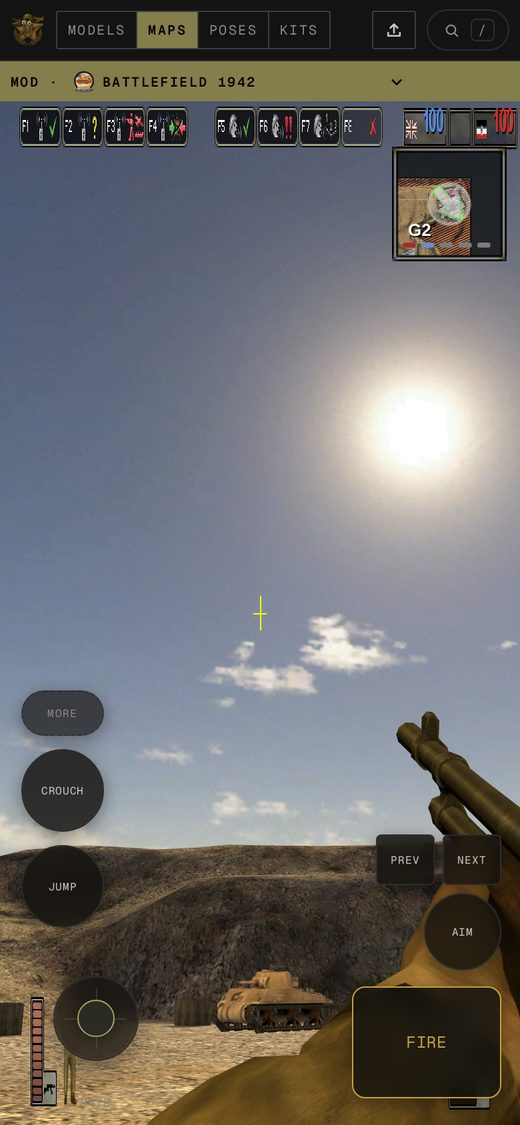
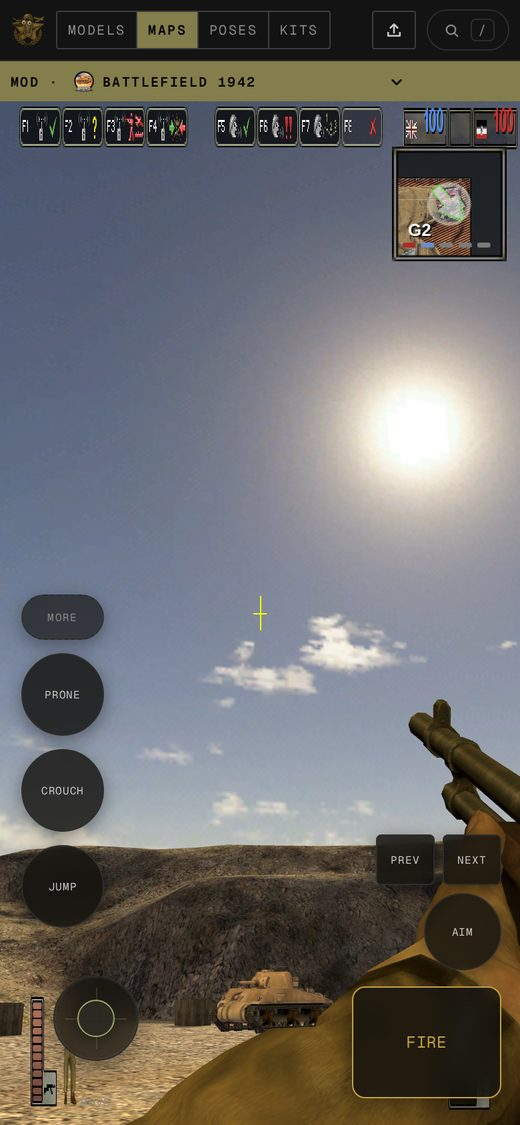
fix(viewer): a phone can get the soldier down and not back up
The report was "if you crouch or prone you can't get back up", with the
guess that it is a broken mechanic in our port and that retail lets you press
space to get up.

Measured on the live page first, driving the real keys with the shipped
bindings (LeftCtrl = c_PICrouch, Z = c_PILie, Space = c_PIAction, all three out
of the Infantry.con in controls-defaults.js). The keyboard path was already
correct: LeftCtrl held reads crouch and its release reads stand, Z toggles and
Z again stands him up, and Space while prone leaves him prone. The engine sets
the jump bit only when neither the crouch nor the prone flag is set (client
0x00500628-0x0050067a, symbols.json BFSoldier_jumpFlagSet), so a prone man's
Space press does nothing at all and is not a way out of it.

The fault was touch-only, and it was one button doing two jobs. Prone was the
CROUCH button's 500 ms long press, so an ordinary thumb-rest was a permanent
one-way trip: a hold and a toggle cannot share one target, and nothing on the
phone carried the toggle, so the only roads back were the keyboard's Z and the
keyboard's LeftCtrl.

Each posture button now carries one retail binding and nothing else.

- CROUCH is the c_PICrouch hold again and the long-press timer is gone
  (MOBILE_PRONE_HOLD_MS and proneHoldTimer are deleted), so resting on it can
  no longer put the soldier down.
- PRONE is a new button in the same column and is the literal c_PILie toggle:
[…]

diff --git a/tools/bf1942-models/viewer/touch-controls.js b/tools/bf1942-models/viewer/touch-controls.js
@@ -1,11 +1,12 @@
 /**
  * The touch controls, split by FINGER rather than by screen half.
  *
- * LEFT thumb: the FIXED move ring at the bottom-left, then the posture pair
- * stacked above it (JUMP, CROUCH) and the MORE tab over those. Those two are
- * here rather than on the right because they are the actions you need WHILE
- * the other thumb is shooting, and one thumb cannot hold FIRE, jump and crouch
- * at once.
+ * LEFT thumb: the FIXED move ring at the bottom-left, then the posture
+ * buttons stacked above it (JUMP, CROUCH, PRONE) and the MORE tab over those.
+ * Those three are here rather than on the right because they are the actions
+ * you need WHILE the other thumb is shooting, and one thumb cannot hold FIRE,
+ * jump and crouch at once. Each is one retail binding and nothing more:
+ * CROUCH holds `c_PICrouch` (LeftCtrl), PRONE toggles `c_PILie` (Z).
  * RIGHT thumb: FIRE at the bottom-right (a deliberate drag off a held FIRE
  * turns the camera), AIM above it, the kit's weapon pair above that, and the
  * look drag over the whole right half. A drag that is not on a button is the
@@ -29,7 +30,7 @@
  * page, as getters (a binding the page reassigns is read live):
  * `aircraft`, `captured`, `car`, `cycleKitWeapon`, `cycleView`, `ensureAudioContext`,
  * `enterVehicle`, `exitSeat`, `footView3p`, `handWeapon`, `isTouchDevice`,
- * `keys`, `kitOffer`, `lookDelta`, `mannedActive`,
+ * `keys`, `kitOffer`, `lookDelta`, `mannedActive`, `prone`,
  * `mouseInput`, `nearEntry`, `nearestEntry`, `noteSeatToggle`, `occupancy`,
  * `optOnFoot`, `optPilot`, `padTriggerDown`, `pickupKit`, `releaseButtons`,
  * `seatToggleReady`, `setFly`, `setTouchAltFire`,
@@ -75,6 +76,7 @@ export function createTouchControls(page) {
   const mobileUseBtn = document.getElementById('mobile-use-btn');
   const mobileViewBtn = document.getElementById('mobile-view-btn');
   const mobileJumpBtn = document.getElementById('mobile-jump-btn');
+  const mobileProneBtn = document.getElementById('mobile-prone-btn');
   const mobileMapBtn = document.getElementById('mobile-map-btn');
   const mobilePickupBtn = document.getElementById('mobile-pickup-btn');
   const mobileSeatsBtn = document.getElementById('mobile-seats-btn');
@@ -96,10 +98,6 @@ export function createTouchControls(page) {
   // reworked look drag; 2200 is ~270 deg/s, a rate stick that turns a 180 in
   // under a second at full tilt and still tracks finely at half deflection.
   const MOBILE_AIM_PIXELS_PER_SECOND = 2200;
-  // Hold the CROUCH button this long and the soldier goes prone as well,
-  // COD Mobile's crouch-over-prone stack: crouch is a hold (`c_PICrouch`),
-  // prone is an edge (`c_PILie`), and the button covers both.
-  const MOBILE_PRONE_HOLD_MS = 500;
   // How far a held FIRE has to travel before it turns the camera. PUBG Mobile
   // lets a drag off the fire button aim while the trigger stays down, which is
   // the whole reason the right thumb sits on FIRE; the slop keeps a thumb
@@ -117,7 +115,6 @@ export function createTouchControls(page) {
   touchControls.mobileThrottleTouched = false;
   touchControls.mobileControlsSignature = '';
   touchControls.mobileSheetOpen = false;
-  let proneHoldTimer = 0;
   let panPointerId = null;
   let panLastX = 0;
   let panLastY = 0;
@@ -211,6 +208,7 @@ export function createTouchControls(page) {
     mobileAimBtn.classList.remove('is-active');
     mobileCrouchBtn.classList.remove('is-active');
     mobileJumpBtn.classList.remove('is-active');
+    mobileProneBtn.classList.remove('is-active');
     mobileThrottleInput.value = '0';
     mobileThrottleValue.value = '0';
     if (page.aircraft) page.aircraft.setInput('c_PIThrottle', 0);
@@ -286,10 +284,13 @@ export function createTouchControls(page) {
     // A sheet with nothing in it is a dead tap, so it only exists for a state
     // that has something to offer, and it closes itself the moment it does not.
     const sheetOpen = touchControls.mobileSheetOpen && show;
+    // The prone flag is in the signature because the Z key can flip it with no
+    // touch of its own, and PRONE has to read as held either way.
+    const prone = !!page.prone;
     const signature = [
       show, padMode, padUsable, onFoot, seated, manned, driving, flying, aimable,
       page.nearEntry?.control || '', touchControls.mobileThrottleTouched,
-      canFire, canAim, canReload, canPickup, freeSeat, sideOpen, sheetOpen,
+      canFire, canAim, canReload, canPickup, freeSeat, sideOpen, sheetOpen, prone,
     ].join('|');
     // Collapse the open intent BEFORE the compare. A MORE press that lands on a
     // state with no HUD (the deploy screen) would otherwise leave the flag set,
@@ -330,8 +331,10 @@ export function createTouchControls(page) {
     mobileSeatsBtn.hidden = freeSeat < 0;
     mobileJumpBtn.hidden = !onFoot;
     mobileCrouchBtn.hidden = !onFoot;
+    mobileProneBtn.hidden = !onFoot;
     mobileJumpBtn.classList.toggle('is-active', touchControls.mobileJumpHeld && onFoot);
     mobileCrouchBtn.classList.toggle('is-active', touchControls.mobileCrouchHeld && onFoot);
+    mobileProneBtn.classList.toggle('is-active', prone && onFoot);
     mobileUseBtn.hidden = !(onFoot || seated);
     mobileUseBtn.disabled = onFoot ? !page.nearEntry : !seated;
     mobileUseBtn.textContent = onFoot ? (page.nearEntry ? `ENTER ${page.nearEntry.control}` : 'ENTER') : 'EXIT';
@@ -396,19 +399,22 @@ export function createTouchControls(page) {
     mobileAimBtn.classList.toggle('is-active', on);
   }
 
-  /** Crouch is a hold, prone its long press. The held key is the same
-   *  `e.code` the keyboard path records (`c_PICrouch`, LeftCtrl), so the
-   *  engine's per-frame held read sees one key, wherever it came from. */
+  /** Crouch is a hold and only a hold: the same `e.code` the keyboard path
+   *  records (`c_PICrouch`, LeftCtrl, `c_CMPushAndHold` in the shipped
+   *  Infantry.con), so the engine's per-frame held read sees one key wherever
+   *  it came from. Releasing stands the soldier back up, which BODY-1 reads
+   *  off `Lb_Crouch`'s own `returnToState Lb_CrouchToStand`.
+   *
+   *  Prone used to be this button's 500 ms long press, and that was wrong in
+   *  two ways at once: a hold and a toggle cannot share one target, and
+   *  nothing on the phone could undo the toggle. Prone is its own button now
+   *  (`c_PILie`, the Z key, `c_CMNonRepetitive`). */
   function holdMobileCrouch(on) {
     if (on) {
       page.setFly(true);
       touchControls.mobileCrouchHeld = true;
       page.keys.add(CROUCH_CODE);
       mobileCrouchBtn.classList.add('is-active');
-      clearTimeout(proneHoldTimer);
-      proneHoldTimer = setTimeout(() => {
-        if (page.optOnFoot.checked && page.soldier && !page.soldierDead && !page.occupancy) page.toggleProne();
-      }, MOBILE_PRONE_HOLD_MS);
     } else {
       touchControls.mobileCrouchHeld = false;
       page.keys.delete(CROUCH_CODE);
@@ -417,7 +423,6 @@ export function createTouchControls(page) {
   }
 
   function releaseMobileCrouch() {
-    clearTimeout(proneHoldTimer);
     if (touchControls.mobileCrouchHeld || page.keys.has(CROUCH_CODE)) holdMobileCrouch(false);
   }
 
@@ -707,6 +712,21 @@ export function createTouchControls(page) {
     // The keyboard's guard: reload once there is a magazine to reload.
     if (page.handWeapon?.data?.magazine) page.startReload?.();
   }, () => !mobileReloadBtn.disabled && !mobileReloadBtn.hidden);
+
+  // Prone, the Z key's own toggle (`c_PILie`, `c_CMNonRepetive`). Tapping it a
+  // second time is the road back up, exactly as on the keyboard, and the
+  // soldier rises through `Lb_LieToStand` (BODY-1). Jump is deliberately not
+  // that road: the engine sets the jump bit only when neither the crouch nor
+  // the prone flag is set (client `0x00500628`-`0x0050067a`, symbols.json
+  // `BFSoldier_jumpFlagSet`), so a prone man's Space press does nothing at all.
+  //
+  // The visibility pass is called straight on rather than left to the next
+  // `paintHud`, because this is the one button whose own lit state the press
+  // changes, and a frame of latency on "am I prone" is a frame of doubt.
+  edgeButton(mobileProneBtn, () => {
+    page.toggleProne();
+    updateMobileControls();
+  }, () => !mobileProneBtn.disabled && !mobileProneBtn.hidden);
 
   // The weapon pair, in the right thumb's arc over AIM: one press per step,
   // wrapping, and the step raises the weapon (see `mobileCycleWeapon`).

diff --git a/tools/bf1942-models/viewer/map.html b/tools/bf1942-models/viewer/map.html
@@ -88,11 +88,17 @@
        sheet instead of turning the camera. -->
   <div id="mobile-more-scrim" hidden></div>
   <div id="mobile-controls" hidden>
-    <!-- The left thumb's column, above the ring: the posture pair you need
-         WHILE the right thumb is shooting, then the tab for everything else. -->
+    <!-- The left thumb's column, above the ring: the posture buttons you need
+         WHILE the right thumb is shooting, then the tab for everything else.
+         Each is the retail binding and nothing else, because a hold and a
+         toggle cannot share one button: CROUCH holds `c_PICrouch` (LeftCtrl),
+         PRONE toggles `c_PILie` (Z), JUMP is `c_PIAction` (Space). With the
+         old long-press, a thumb that rested on CROUCH for half a second went
+         prone and nothing on the phone could bring him back up. -->
     <div class="mobile-vert-stack">
       <button type="button" id="mobile-more-btn" class="mobile-more-btn" aria-label="More actions">MORE</button>
-      <button type="button" id="mobile-crouch-btn" class="mobile-posture-btn" aria-label="Crouch, hold to go prone" hidden>CROUCH</button>
+      <button type="button" id="mobile-prone-btn" class="mobile-posture-btn prone-btn" aria-label="Go prone, tap again to stand" hidden>PRONE</button>
+      <button type="button" id="mobile-crouch-btn" class="mobile-posture-btn" aria-label="Crouch, hold" hidden>CROUCH</button>
       <button type="button" id="mobile-jump-btn" class="mobile-posture-btn" aria-label="Jump" hidden>JUMP</button>
     </div>
     <!-- The right thumb's arc, above the bottom-right corner: FIRE at the
@@ -610,7 +616,7 @@ const freeCamera = createFreeCamera(bag(
 const touchControls = createTouchControls(bag(
   from(() => localLook, `lookDelta mouseInput`),
   from(() => kitDrops, `offer:kitOffer pickup:pickupKit`),
-  from(() => localPlayer, `aircraft car occupancy soldier soldierDead switchSeat toggleProne`),
+  from(() => localPlayer, `aircraft car occupancy prone soldier soldierDead switchSeat toggleProne`),
   from(() => pageAudio, `ensureAudioContext`),
   from(() => pageInput, `captured keys noteSeatToggle padTriggerDown releaseButtons seatToggleReady setFly
     setTouchAltFire setTouchTriggers`),

diff --git a/tools/bf1942-models/viewer/map.css b/tools/bf1942-models/viewer/map.css
@@ -596,10 +596,10 @@ a { color: var(--accent); }
   pointer-events: none;
 }
 /* The left thumb's column, directly above the ring: JUMP nearest the thumb,
-   CROUCH above it, the MORE tab over those. The ring's hit box ends 136 px up
-   the left edge, so the column starts at 148 and the two never fight over a
-   touch. `pointer-events: none` on the column, `auto` on the buttons, so the
-   gaps between them fall through. */
+   then CROUCH, PRONE, and the MORE tab over those. The ring's hit box ends
+   136 px up the left edge, so the column starts at 148 and the two never fight
+   over a touch. `pointer-events: none` on the column, `auto` on the buttons,
+   so the gaps between them fall through. */
 .mobile-vert-stack {
   position: absolute;
   left: 16px;
@@ -634,6 +634,14 @@ a { color: var(--accent); }
 .mobile-posture-btn.is-active {
   border-color: var(--accent);
   background: rgba(72, 72, 58, 0.92);
+}
+/* PRONE is a toggle where CROUCH and JUMP are holds, and the button has to say
+   so: the fill is the held look, so a lit PRONE reads as the state it is, and
+   the solid border marks it as the odd one out of the three. */
+.mobile-posture-btn.prone-btn.is-active {
+  border-color: var(--warn);
+  background: rgba(88, 60, 28, 0.92);
+  color: #f0e0c8;
 }
 .mobile-more-btn {
   width: 62px;
@@ -857,6 +865,20 @@ a { color: var(--accent); }
     bottom: auto;
   }
 }
+/* Landscape on a phone: the stage is short, and the posture column (a 34 px
+   tab plus three 62 px buttons and their gaps) has no room above the ring, so
+   it lies down to the right of it. The row is 226 px wide and the stage in
+   landscape is the phone's long axis, so it fits with the right thumb's stack
+   untouched. */
+@media (max-height: 560px) {
+  .mobile-vert-stack {
+    left: 136px;
+    bottom: 24px;
+    flex-direction: row;
+    align-items: center;
+  }
+}
+
 /* The room join modal (P3): the game's own overlay for a room that will
    not open -- a missing room server, a full room, a bad code. The panel
    is this page's tokens, the deploy screen's family; pre-game it floats

diff --git a/features/mobile-four-finger-controls/README.md b/features/mobile-four-finger-controls/README.md
@@ -270,6 +270,70 @@ Screenshots of the play screen and the open sheet are in this folder as
 change is where the thumbs land, so these two are worth a look before the next
 phone pass.
 
+## Built (ninth pass, 2026-10-01): you could get down and not back up
+
+The report was "if you crouch or prone you can't get back up", with the owner's
+guess that it is a broken mechanic in our port and that retail lets you press
+space to get up.
+
+Measured on the live page first, driving the real keys with the real bindings
+(`LeftCtrl` = `c_PICrouch`, `Z` = `c_PILie`, `Space` = `c_PIAction`, all three
+from the shipped `Infantry.con` in `controls-defaults.js`). The keyboard path
+was already correct and matches retail:
+
+| Input | Stance after |
+| --- | --- |
+| LeftCtrl held | crouch |
+| LeftCtrl released | stand |
+| Z | prone |
+| Z again | stand |
+| LeftCtrl held from a crouch | crouch, rising to stand on release |
+| Space while prone | prone, unchanged |
+
+So the sim law is not the fault. Two things settled the last row and one open
+question. The engine sets the jump bit only when neither the crouch nor the
+prone flag is set (client `0x00500628`-`0x0050067a`, `symbols.json`
+`BFSoldier_jumpFlagSet`), so a prone man's Space press does nothing at all and
+is not a way out. BODY-1 gives the two chains that are: `Lb_LieToCrouch` when
+the crouch channel is asserted while lying, and `Lb_LieToStand` when it lets
+go.
+
+The fault was touch-only, and it was one button doing two jobs. Prone was the
+CROUCH button's 500 ms long press, which made an ordinary thumb-rest into a
+permanent one-way trip: a hold and a toggle on one target cannot both work,
+and nothing on the phone carried the toggle, so the only roads back were the
+keyboard's Z and the keyboard's LeftCtrl.
+
+The fix gives each posture button one retail binding and nothing else. CROUCH
+is the `c_PICrouch` hold again and the long-press timer is gone, so resting on
+it can no longer put the soldier down. PRONE is a new button in the same column
+and is the literal `c_PILie` toggle: tap for prone, tap again for the
+`Lb_LieToStand` rise. It lights in the warn colour when he is down, which is
+also how a toggle reads differently from the two holds next to it, and the
+visibility pass refreshes on the press rather than on the next frame. `prone`
+joins the touchControls page bag and the visibility signature, so the keyboard's
+Z lights the same button.
+
+The column is four items now (MORE, PRONE, CROUCH, JUMP, 250 px tall above a
+148 px ring), which fits a portrait phone with 374 px to spare. It does not fit
+a landscape one, so a `max-height: 560px` rule lays the column down to the right
+of the ring instead.
+
+Verified with the stub-DOM smoke (67 claims) and the live phone probe (39
+claims). On the live page: PRONE goes prone and stands him up again, a 900 ms
+rest on CROUCH reads `crouch` and never `prone`, releasing it reads `stand`, and
+the whole column measures clear of the ring and of the top of the stage.
+
+One parity question left open, recorded so the next pass does not re-derive it.
+Our law is `prone ? prone : (crouch ? crouch : stand)`, so while `c_PILie` is
+asserted the crouch channel is ignored: holding Ctrl from prone does not bring
+him to a crouch, and releasing Ctrl while prone leaves him prone. BODY-1's
+`Lb_LieToCrouch` chain exists and has to be entered by something, and the
+crouch channel is the only candidate. Nobody has read which channel picks which
+chain out of `handlePlayerInput`. On a phone this is a mild annoyance (from
+prone you must tap PRONE before CROUCH does anything) and on the keyboard it is
+invisible, so it is filed rather than guessed at.
+
 ## Next steps
 
 1. Playtest on a real phone, and judge the one judgement call in this pass: the
